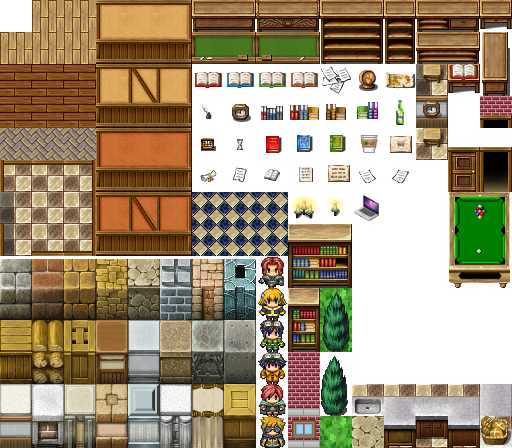
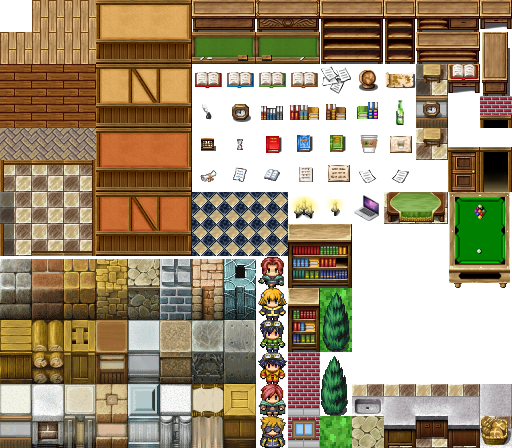
skygge rettet på skole - nyt bord i examroom

Changed region(s): [[0.75, 0.4062, 0.875, 0.5]]

diff --git a/WorldofZuulfx/src/worldofzuulfx/Room/RoomFactory.java b/WorldofZuulfx/src/worldofzuulfx/Room/RoomFactory.java
@@ -268,10 +268,10 @@ public class RoomFactory {
         exam = new Room("exam", "exam", backgroundLayer, objectLayer, tiles, new int[][]{{0, 12, 12, 12, 12, 12, 12, 12, 12, 12, 12, 0},
                                                                                         {0, 12, 133, 147, 85, 99, 113, 127, 133, 147, 12, 0},
                                                                                         {0, 12, 134, 148, 20, 20, 20, 20, 134, 148, 12, 0},
-                                                                                        {0, 12, 6, 20, 20, 20, 20, 20, 20, 20, 12, 0},
-                                                                                        {0, 12, 6, 20, 20, 20, 20, 20, 20, 20, 12, 0},
-                                                                                        {0, 12, 6, 20, 186, 211, 20, 20, 20, 20, 13, 0},
-                                                                                        {0, 12, 6, 20, 186, 212, 186, 20, 20, 20, 34, 0},
+                                                                                        {0, 12, 6, 20, 20, 186, 186, 20, 20, 20, 12, 0},
+                                                                                        {0, 12, 6, 20, 20, 174, 188, 20, 20, 20, 12, 0},
+                                                                                        {0, 12, 6, 20, 20, 20, 186, 20, 20, 20, 13, 0},
+                                                                                        {0, 12, 6, 20, 20, 20, 20, 20, 20, 20, 34, 0},
                                                                                         {0, 12, 6, 20, 20, 20, 20, 20, 20, 20, 12, 0},
                                                                                         {0, 12, 6, 20, 20, 20, 20, 20, 20, 20, 12, 0},
                                                                                         {0, 12, 6, 20, 20, 20, 20, 20, 20, 20, 12, 0},
@@ -340,12 +340,12 @@ public class RoomFactory {
         knoldene = new Room("knoldene", "knoldene", backgroundLayer, objectLayer, tiles, new int[][]{{0, 12, 12, 12, 12, 12, 214, 12, 12, 12, 12, 0},
                                                                                                     {0, 12, 13, 13, 13, 13, 215, 13, 13, 13, 12, 0},
                                                                                                     {0, 12, 6, 186, 20, 20, 20, 20, 186, 211, 12, 0},
-                                                                                                    {0, 12, 186, 198, 186, 20, 20, 20, 186, 212, 12, 0},
+                                                                                                    {0, 12, 184, 198, 186, 20, 20, 20, 186, 212, 12, 0},
                                                                                                     {0, 12, 6, 186, 20, 20, 20, 20, 20, 186, 12, 0},
                                                                                                     {0, 13, 6, 20, 20, 20, 20, 20, 20, 20, 13, 0},
                                                                                                     {0, 7, 20, 20, 20, 20, 20, 20, 20, 20, 34, 0},
                                                                                                     {0, 12, 6, 186, 20, 20, 20, 20, 20, 20, 12, 0},
-                                                                                                    {0, 12, 186, 198, 186, 20, 20, 20, 20, 20, 12, 0},
+                                                                                                    {0, 12, 184, 198, 186, 20, 20, 20, 20, 20, 12, 0},
                                                                                                     {0, 12, 6, 186, 20, 20, 20, 20, 20, 20, 12, 0},
                                                                                                     {0, 12, 12, 12, 12, 12, 20, 12, 12, 12, 12, 0},
                                                                                                     {0, 13, 13, 13, 13, 13, 20, 13, 13, 13, 13, 0},
